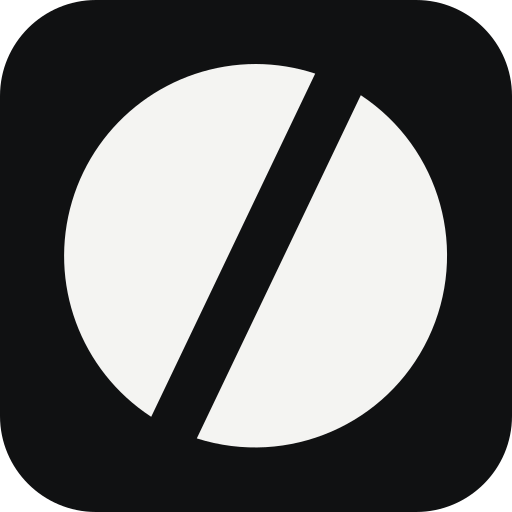
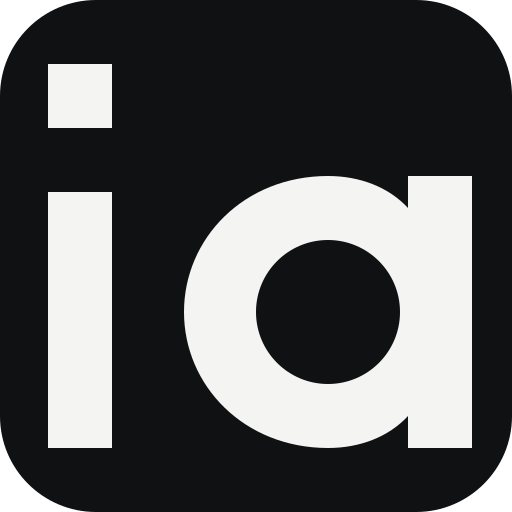
Replace the split-circle symbol with an Ithy.ai monogram

diff --git a/index.html b/index.html
@@ -12,22 +12,22 @@
   <meta property="og:site_name" content="Ithy.ai">
   <meta property="og:title" content="Ithy.ai — Intelligence, put to work.">
   <meta property="og:description" content="A different way to build and operate businesses. AI at the core. Real outcomes at the center.">
-  <meta property="og:image" content="https://ithy.ai/social-card.png?v=20261024b">
+  <meta property="og:image" content="https://ithy.ai/social-card.png?v=20261024c">
   <meta property="og:image:width" content="1200">
   <meta property="og:image:height" content="630">
   <meta property="og:image:alt" content="Ithy.ai. Intelligence, put to work. Distinct businesses. Shared intelligence.">
   <meta name="twitter:card" content="summary_large_image">
   <meta name="twitter:title" content="Ithy.ai — Intelligence, put to work.">
   <meta name="twitter:description" content="A family of focused businesses. A shared AI operating foundation.">
-  <meta name="twitter:image" content="https://ithy.ai/social-card.png?v=20261024b">
+  <meta name="twitter:image" content="https://ithy.ai/social-card.png?v=20261024c">
   <meta name="twitter:image:alt" content="Ithy.ai. Intelligence, put to work.">
   <meta name="application-name" content="Ithy.ai">
-  <link rel="icon" href="favicon.ico?v=20261024b" sizes="16x16 32x32 48x48">
-  <link rel="icon" href="favicon-32x32.png?v=20261024b" type="image/png" sizes="32x32">
-  <link rel="icon" href="favicon.svg?v=20261024b" type="image/svg+xml" sizes="any">
-  <link rel="apple-touch-icon" href="apple-touch-icon.png?v=20261024b" sizes="180x180">
-  <link rel="mask-icon" href="assets/pinned-tab.svg?v=20261024b" color="#303438">
-  <link rel="manifest" href="site.webmanifest?v=20261024b">
+  <link rel="icon" href="favicon.ico?v=20261024c" sizes="16x16 32x32 48x48">
+  <link rel="icon" href="favicon-32x32.png?v=20261024c" type="image/png" sizes="32x32">
+  <link rel="icon" href="favicon.svg?v=20261024c" type="image/svg+xml" sizes="any">
+  <link rel="apple-touch-icon" href="apple-touch-icon.png?v=20261024c" sizes="180x180">
+  <link rel="mask-icon" href="assets/pinned-tab.svg?v=20261024c" color="#303438">
+  <link rel="manifest" href="site.webmanifest?v=20261024c">
   <style>
     :root {
       color-scheme: light;
@@ -257,14 +257,14 @@
     }
   </style>
   <script type="application/ld+json">
-    {"@context":"https://schema.org","@type":"Organization","name":"Ithy","alternateName":"Ithy.ai","legalName":"Ithy, Inc.","url":"https://ithy.ai/","logo":"https://ithy.ai/icon-512.png?v=20261024b","description":"A family of focused businesses, with AI at the core of the product and the operation.","email":"wluk@ithy.ai","sameAs":["https://ithy.com/"]}
+    {"@context":"https://schema.org","@type":"Organization","name":"Ithy","alternateName":"Ithy.ai","legalName":"Ithy, Inc.","url":"https://ithy.ai/","logo":"https://ithy.ai/icon-512.png?v=20261024c","description":"A family of focused businesses, with AI at the core of the product and the operation.","email":"wluk@ithy.ai","sameAs":["https://ithy.com/"]}
   </script>
 </head>
 <body id="top">
   <a class="skip" href="#main">Skip to content</a>
   <header class="site-header wrap">
     <a class="brand" href="#top" aria-label="Ithy.ai home">
-      <img class="brand-symbol" src="assets/brand.svg?v=20261024b" width="37" height="37" alt="">
+      <img class="brand-symbol" src="assets/brand.svg?v=20261024c" width="37" height="37" alt="">
       <span class="wordmark">ithy<span>.ai</span></span>
     </a>
     <nav class="nav" aria-label="Main navigation">
@@ -311,7 +311,7 @@
           <rect x="207" y="137" width="146" height="145" fill="#e1e4df" stroke="#b9bfba"/>
           <rect x="199" y="129" width="146" height="145" fill="#101112"/>
           <g transform="translate(216 139) scale(.55)">
-            <path d="M32 8A24 24 0 0 0 18.9 52.1L39.4 9.2A24 24 0 0 0 32 8ZM45.1 11.9 24.6 54.8A24 24 0 0 0 45.1 11.9Z" fill="#f4f4f2"/>
+            <path fill-rule="evenodd" d="M6 8h8v8H6ZM6 24h8v32H6ZM41 22c-10.5 0-18 7.8-18 17S30.5 56 41 56c4 0 7.6-1.4 10-4v4h8V22h-8v4c-2.4-2.6-6-4-10-4Zm0 8a9 9 0 1 1 0 18 9 9 0 1 1 0-18Z" fill="#f4f4f2"/>
           </g>
           <text class="diagram-brand" x="219" y="228">ithy</text>
           <path d="M219 245h105" stroke="#626a64" stroke-width=".7"/>
@@ -414,7 +414,7 @@
   </main>
 
   <footer class="site-footer wrap">
-    <div class="footer-legal"><img class="brand-symbol" src="assets/brand.svg?v=20261024b" width="19" height="19" alt=""><span>© 2026 Ithy, Inc.</span></div>
+    <div class="footer-legal"><img class="brand-symbol" src="assets/brand.svg?v=20261024c" width="19" height="19" alt=""><span>© 2026 Ithy, Inc.</span></div>
     <a class="footer-note back-top" href="#top">Back to top <span aria-hidden="true">↑</span></a>
   </footer>
   <script>

diff --git a/404.html b/404.html
@@ -6,8 +6,8 @@
   <meta name="robots" content="noindex">
   <meta name="theme-color" content="#f4f4f2">
   <title>Page not found — Ithy.ai</title>
-  <link rel="icon" href="/favicon.ico?v=20261024b" sizes="16x16 32x32 48x48">
-  <link rel="icon" href="/favicon.svg?v=20261024b" type="image/svg+xml">
+  <link rel="icon" href="/favicon.ico?v=20261024c" sizes="16x16 32x32 48x48">
+  <link rel="icon" href="/favicon.svg?v=20261024c" type="image/svg+xml">
   <style>
     * { box-sizing: border-box; }
     body { margin: 0; min-height: 100svh; display: grid; place-items: center; padding: 28px; color: #101112; background: #f4f4f2; font-family: -apple-system,BlinkMacSystemFont,'Segoe UI',Helvetica,Arial,sans-serif; }
@@ -23,7 +23,7 @@
 </head>
 <body>
   <main>
-    <img src="/assets/brand.svg?v=20261024b" alt="Ithy.ai" width="64" height="64">
+    <img src="/assets/brand.svg?v=20261024c" alt="Ithy.ai" width="64" height="64">
     <p class="label">404 / PAGE NOT FOUND</p>
     <h1>A different<br>way back.</h1>
     <p>This page isn’t here. You can find our approach, our public work and a way to reach us on the homepage.</p>

diff --git a/README.md b/README.md
@@ -10,6 +10,6 @@ GitHub Pages publishes `main` from the repository root. The custom domain is `it
 
 Edit `index.html` and push to `main`. No dependency install or build is required. The page uses local SVG/PNG/ICO brand assets, inline CSS and a small progressive-enhancement script for copying the contact email. It has no analytics, external fonts or third-party scripts.
 
-`favicon.svg` is the editable favicon source. `assets/brand.svg` is the transparent site mark: a monochrome circle divided by a sharp diagonal cut, carrying forward Ithy’s circular origins as a separate identity. Browser icons, Apple touch icon, web manifest and social preview are served as ordinary static files. `robots.txt` and `sitemap.xml` identify the canonical public page.
+`favicon.svg` is the editable favicon source. `assets/brand.svg` is the transparent site mark: a custom lowercase “ia” monogram drawn from Ithy.ai, with a square dot, uniform strokes and a circular counter. Browser icons, Apple touch icon, web manifest and social preview are served as ordinary static files. `robots.txt` and `sitemap.xml` identify the canonical public page.
 
 Contact links point to `wluk@ithy.ai`. The public business link points to `https://ithy.com/`.
